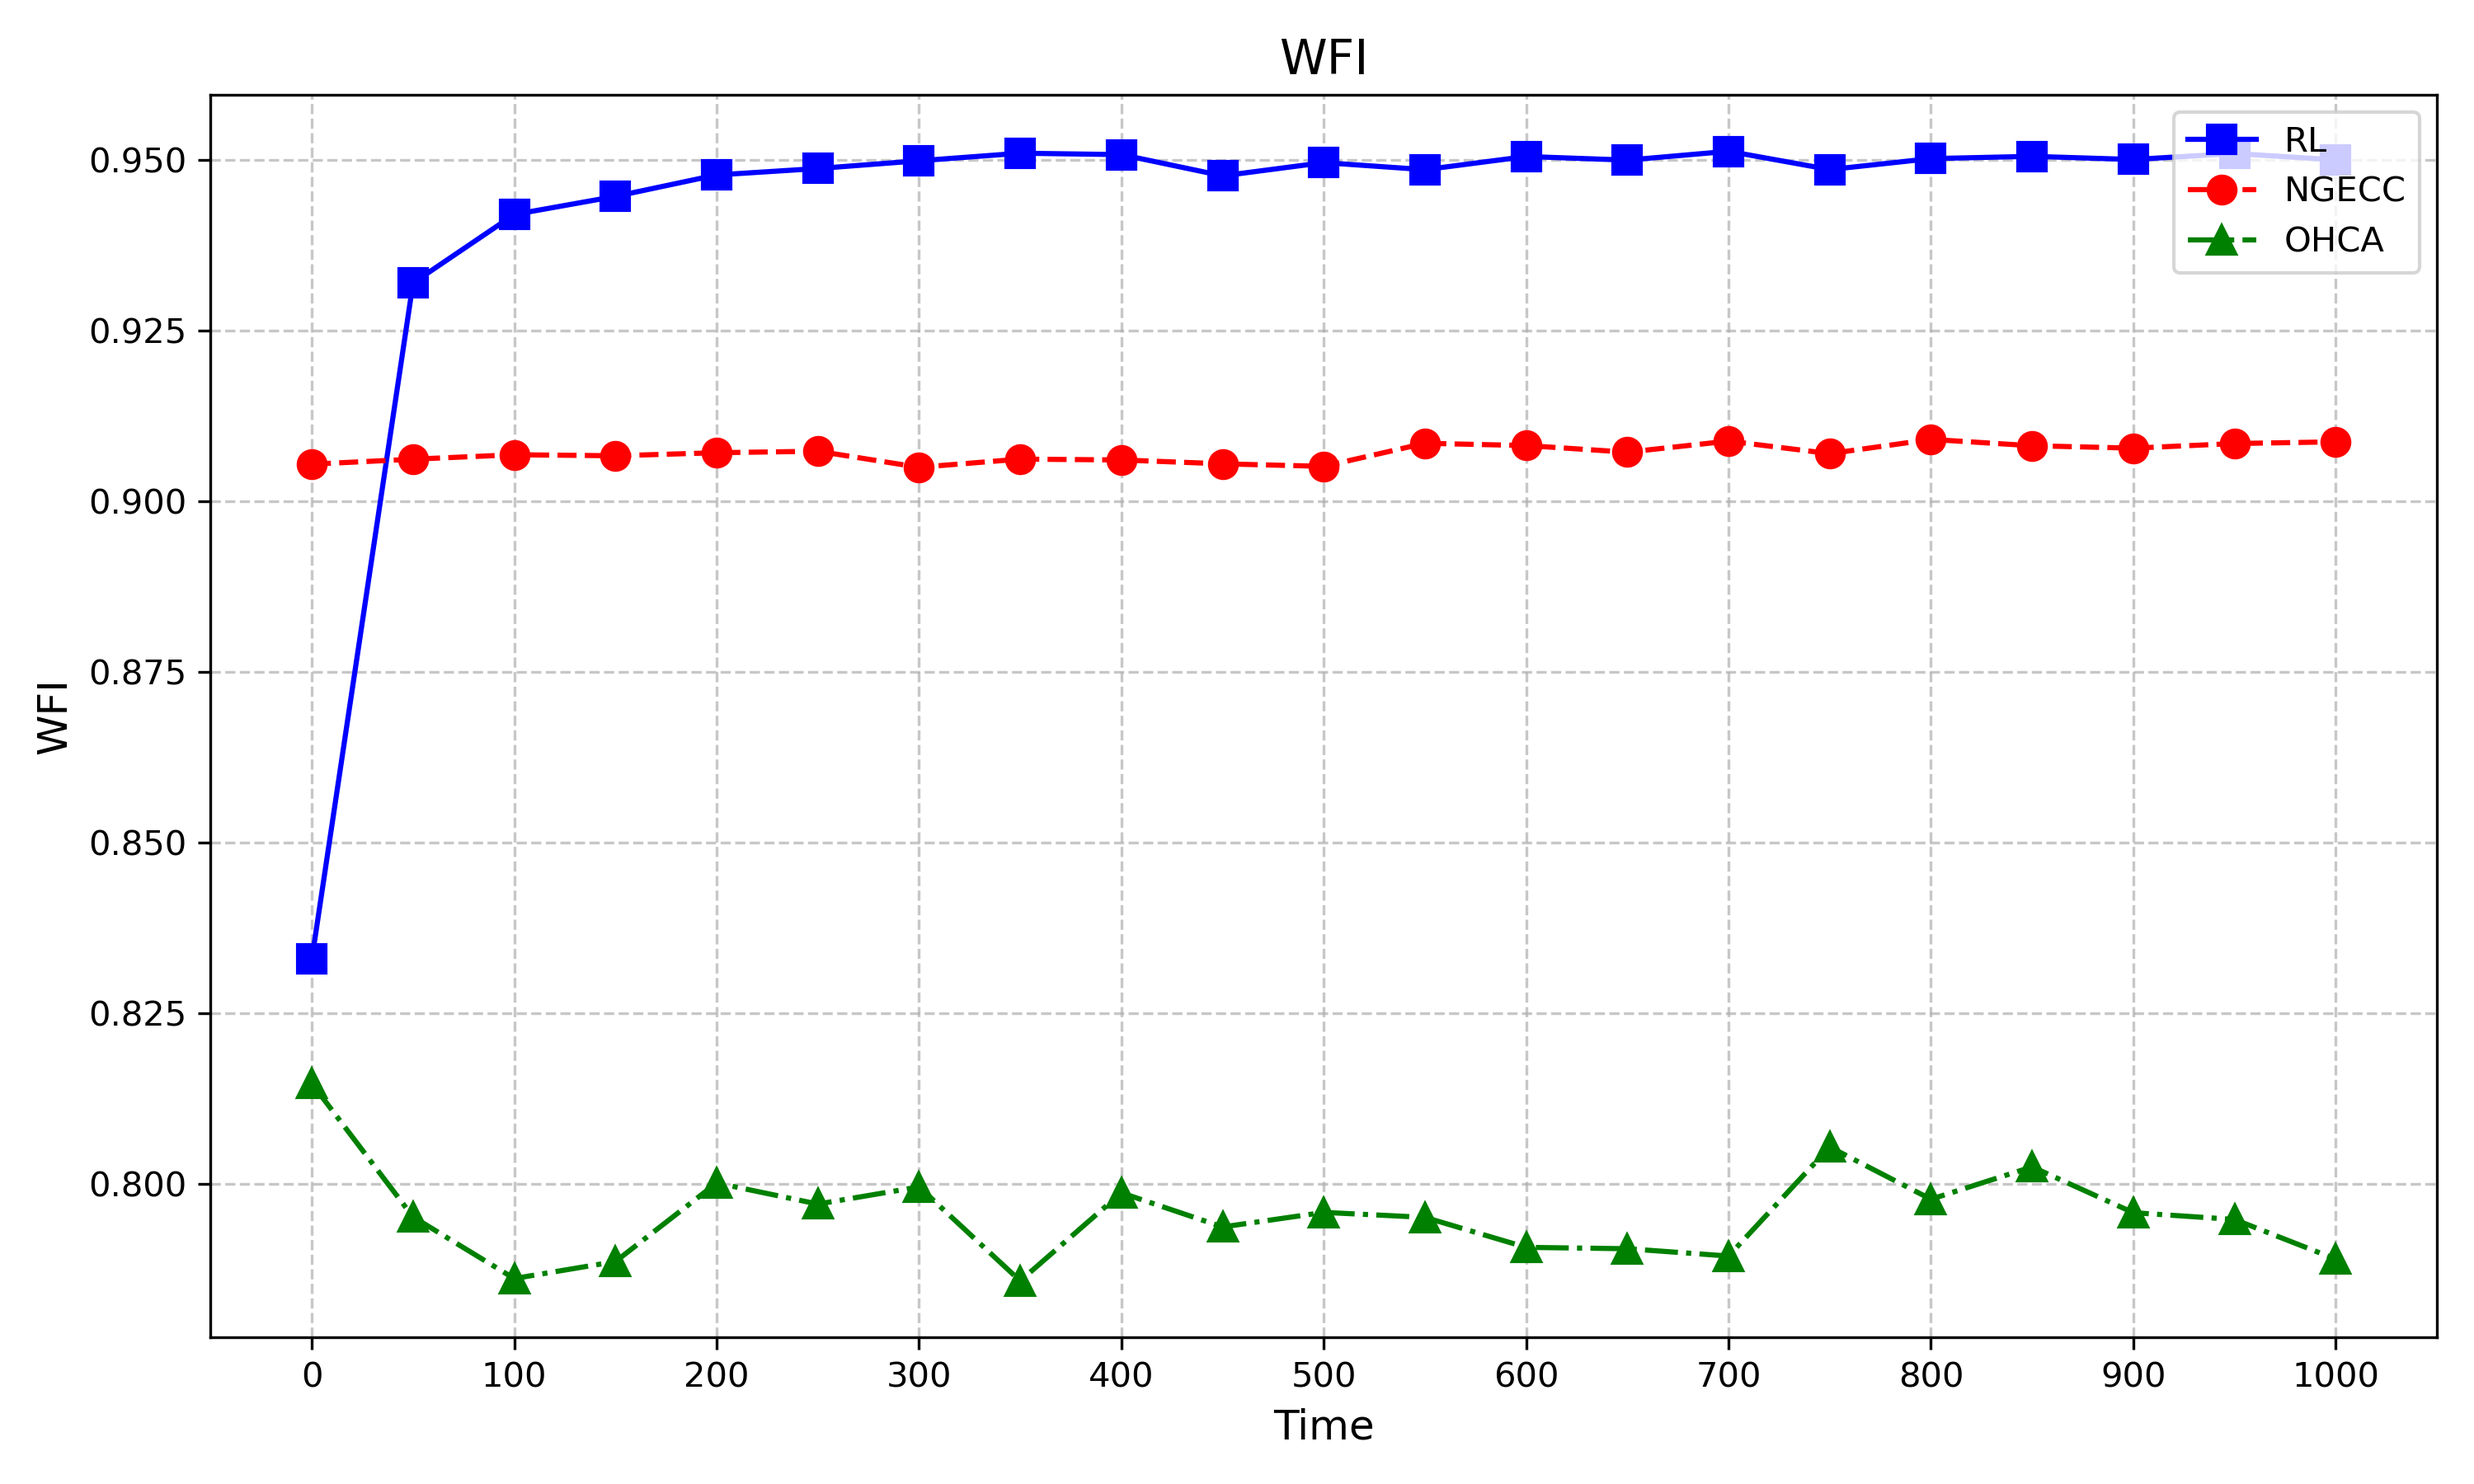
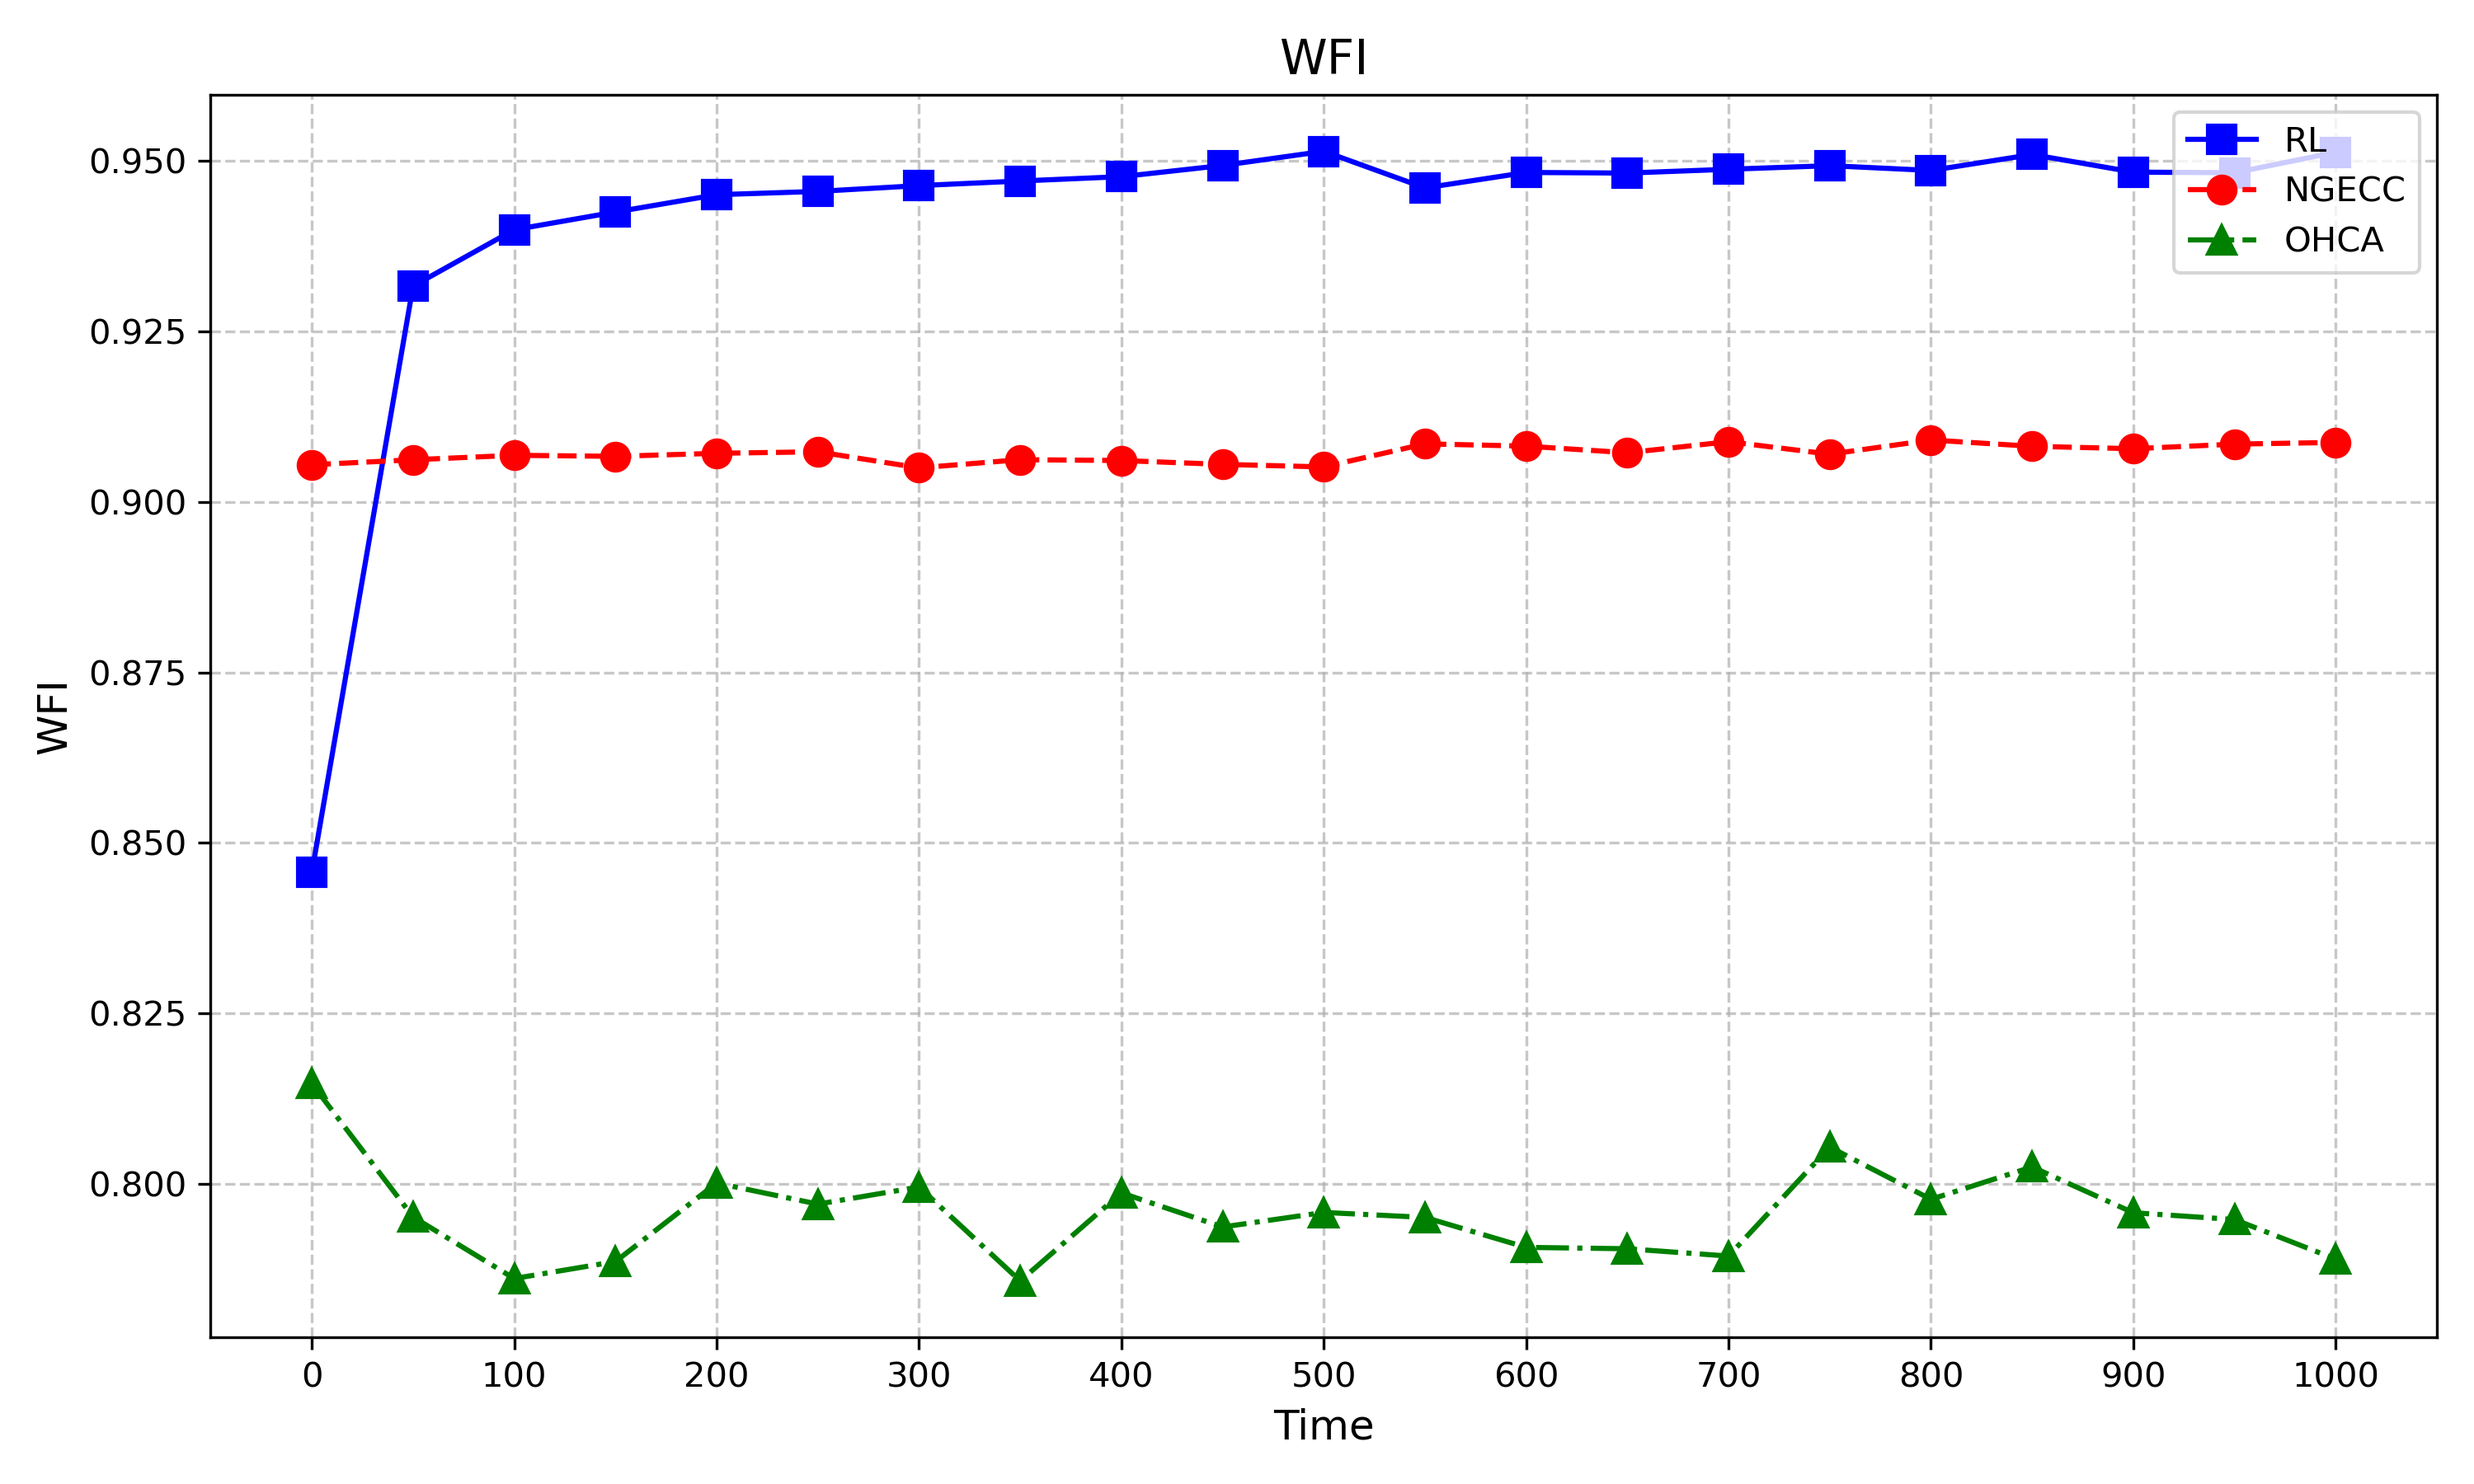
Implement new evaluation script EVAL1.py and update checkpoint path in EVAL.py; modify DiscreteActionEnv initialization for better parameter handling.

Changed region(s): [[0.155, 0.0933, 0.961, 0.1867], [0.124, 0.3111, 0.155, 0.6533], [0.155, 0.28, 0.186, 0.3111]]

diff --git a/EVAL1.py b/EVAL1.py
@@ -82,6 +82,13 @@ actor.load_state_dict(state_dict)
 priority_sending_rates = defaultdict(list)
 priority_counts = defaultdict(int)
 
+# 用于跟踪优先级变化的统计信息
+priority_change_stats = {
+    "1->2": 0, "1->3": 0, 
+    "2->1": 0, "2->3": 0,
+    "3->1": 0, "3->2": 0
+}
+
 eval_episode_rewards = []
 rnn_states = np.zeros((episode_length + 1, n_rollout_threads, num_agents, recurrent_N, hidden_size),dtype=np.float32).shape[2:]
 eval_rnn_states = np.zeros((1, *rnn_states),dtype=np.float32)
@@ -103,6 +110,38 @@ for epoch in tqdm(range(500), desc="Epochs"):
     ratio_seq = np.zeros(episode_length)
     # 以下是一个episode的循环
     for step in range(episode_length):
+        # 从20步开始，每隔20步随机选择两个节点更换优先级
+        if step >= 20 and step % 20 == 0:
+            # 随机选择两个节点
+            nodes_to_change = np.random.choice(num_agents, 1, replace=False)
+            
+            # # 记录变更前的优先级
+            # print(f"\n步骤 {step}: 变更优先级")
+            # print(f"变更前的优先级: {pis}")
+            
+            # 对每个选中的节点，更换为其他两个优先级之一
+            for node in nodes_to_change:
+                current_priority = pis[node]
+                # 可能的优先级是1、2、3，获取当前优先级以外的两个值
+                possible_priorities = [p for p in [1, 2, 3] if p != current_priority]
+                # 从剩余两个优先级中随机选择一个
+                new_priority = np.random.choice(possible_priorities)
+                # 更新节点优先级
+                pis[node] = new_priority
+                # 记录优先级变化统计
+                change_key = f"{current_priority:.0f}->{new_priority:.0f}"
+                if change_key in priority_change_stats:
+                    priority_change_stats[change_key] += 1
+                # print(f"节点 {node}: {current_priority} -> {new_priority}")
+            
+            # 更新环境中的优先级
+            env.pi = pis.astype(np.float32)
+            # 更新平均优先级
+            env.avg_pi = env.get_avg_pi()
+            
+            # 记录变更后的优先级
+            # print(f"变更后的优先级: {pis}\n")
+        
         actions, _,rnn_states = actor(obs, eval_rnn_states, eval_masks, deterministic=False,)
         actions = _t2n(actions)
         # 将actions转换为one_hot编码,对one_hot编码纵向相加，得到一个三维numpy数组，以这三个量的大小作为index加到total_action_dis中
@@ -153,6 +192,12 @@ print(f"Total throughput: {total_throughput:.4f}")
 print(f"ratio: {total_throughput/total_sending_rate:.4f}")
 print("average_rewards:", np.average(epoch_rewards))
 print("total_action_dis:", total_action_dis / total_action_dis.sum())
+
+# 显示优先级变化统计
+print("\n优先级变化统计:")
+for change, count in priority_change_stats.items():
+    print(f"{change}: {count}次")
+print("\n")
 
 # 计算并显示每个优先级的平均发送速率
 print("\nAverage Sending Rates by Priority Level:")

diff --git a/envs/env_discrete.py b/envs/env_discrete.py
@@ -17,8 +17,8 @@ class DiscreteActionEnv(object):
     Wrapper for discrete action environment.
     """
 
-    def __init__(self, **kwargs):
-        self.env = EnvCore(**kwargs)
+    def __init__(self, agent_num=10, alpha=-1.0, beta=1.0, gamma=0.2, W1=0.4, W2=0.6):
+        self.env = EnvCore(agent_num=agent_num, alpha=alpha, beta=beta, gamma=gamma, W1=W1, W2=W2)
         self.num_agent = self.env.agent_num
         #下面的定义为WSN独有
         self.parent_num = self.env.parent_num
@@ -62,6 +62,13 @@ class DiscreteActionEnv(object):
             spaces.Box(low=-np.inf, high=+np.inf, shape=(share_obs_dim,), dtype=np.float32)
             for _ in range(self.num_agent)
         ]
+
+        self.pi = np.ones(agent_num)  # 初始化优先级为1
+        self.avg_pi = 1.0  # 初始化平均优先级为1
+
+    def get_avg_pi(self):
+        """计算所有节点的平均优先级"""
+        return np.mean(self.pi)
 
     def step(self, actions):
         """
